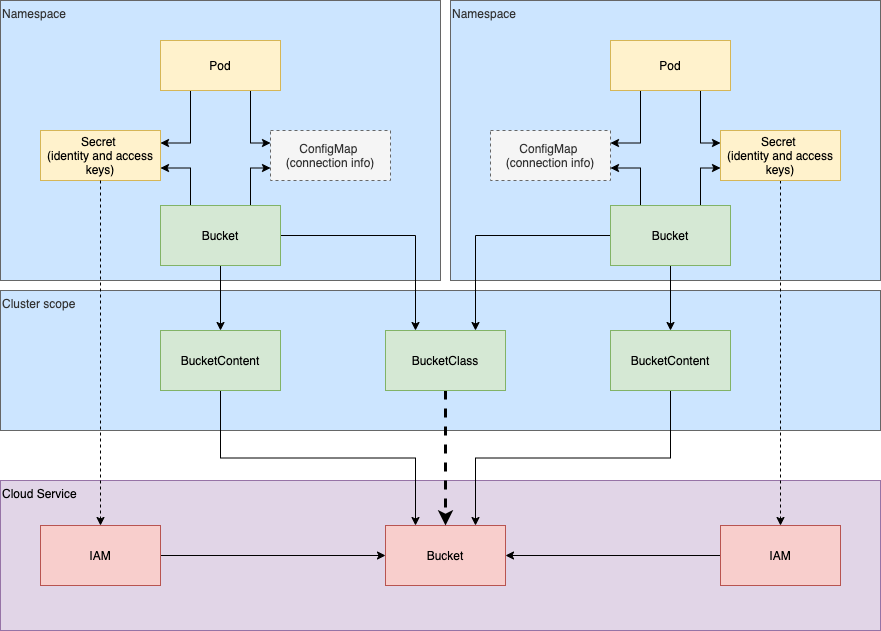
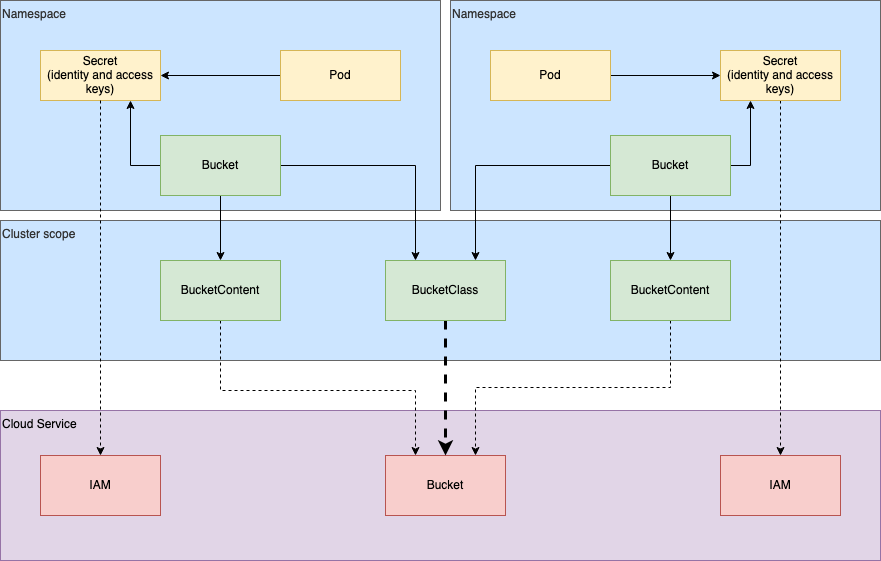
tweak diagrams, add driverless para, describe bucketclass secret params

diff --git a/keps/sig-storage/20191125-bucket-provisioning.md b/keps/sig-storage/20191125-bucket-provisioning.md
@@ -33,8 +33,8 @@ status: provisional
       - [Admin](#admin)
       - [User](#user)
   - [API Relationships](#api-relationships)
-    - [Greenfield Bucket](#greenfield-bucket)
-    - [Brownfield Bucket](#brownfield-bucket)
+    - [Greenfield: Dynamic Bucket Creation](#greenfield-dynamic-bucket-creation)
+    - [Brownfield: Dynamic Bucket Access](#brownfield-dynamic-bucket-access)
   - [Custom Resource Definitions](#custom-resource-definitions)
       - [Bucket](#bucket)
       - [BucketContent](#bucketcontent)
@@ -54,8 +54,9 @@ This proposal does _not_ include a standardized *protocol* or abstraction of sto
 File and block are first class citizens within the Kubernetes ecosystem.  Object, though very different under the hood, is a popular means of storing data, especially against very large data sources.   As such, we feel it is in the interest of the community to elevate buckets to a community supported feature.  In doing so, we can provide Kubernetes cluster users and administrators a normalized and familiar means of managing object storage.
 
 ## Goals
+
 + Define a control plane API in order to standardize and formalize Kubernetes object storage representation.
-+ As MVP, be accessible to the largest groups of consumers by supporting the major object storages protocols (S3, Google Cloud Storage, Azure Blob) while being extensible for future protocol additions.
++ As MVP, be accessible to the largest groups of consumers by supporting the major object storage protocols (S3, Google Cloud Storage, Azure Blob) while being extensible for future protocol additions.
 + Present similar workflows for both new-bucket and imported bucket operations.
 + Use standard Kubernetes mechanisms to sync a pod with the readiness of the bucket it will consume. This can be accomplished via Secrets.
 
@@ -76,7 +77,7 @@ File and block are first class citizens within the Kubernetes ecosystem.  Object
 + _BucketContent_ - A cluster-scoped custom resource bound to a `Bucket` and containing relevant metadata.
 + _Greenfield Bucket_ - a new bucket created and managed by the COSI system.
 +  _Object_ - An atomic, immutable unit of data stored in buckets.
-+ _Driverless Bucket_ - a manually integrated bucket with no installed provisioner.
++ _Driverless_ - a bucket manually defined by a user or admin with no installed provisioner.
 
 # Proposal
 
@@ -85,21 +86,21 @@ File and block are first class citizens within the Kubernetes ecosystem.  Object
 #### Admin
 
 - As a cluster administrator, I can manage multiple object store providers via the Kubernetes API and COSI automation, so that I do not have to become an expert in several different storage interfaces.
+- As a cluster administrator, I want to deploy a COSI-aware controller for managing storage policy, so that I can enforce Bucket policy from within Kubernetes.
 
 #### User
 
 - As a developer, I can define my object storage needs in the same manifest as my workload, so that deployments are streamlined and encapsulated within the Kubernetes interface.
 - As a developer, I can define a manifest containing my workload and object storage configuration once, so that my app may be ported between clusters as long as the storage provided supports my designated data path protocol.
-- As a developer, I want to create a workload operator which ingests a Kuberenetes bucket API object, so that it can dynamically connect workloads to object storage instances.
+- As a developer, I want to create a workload controller which is COSI-aware, so that it can dynamically connect workloads to object storage instances.
 
 ## API Relationships
 
-The diagram below indicates the relationships, by reference, between the proposed APIs, the user facing Kubernetes primitives, and the actual storage and identity instances.  COSI APIs bridge the gap between workloads and object stores, providing a standardized means of consuming object storage for Kubernetes operators and workloads.
+The diagram below indicates the relationships, by reference, between the proposed APIs, the user facing Kubernetes primitives, and the actual storage and identity instances.  COSI APIs bridge the gap between workloads and object stores, providing a standardized means of consuming object storage for Kubernetes controllers and workloads.
 
-Secrets are used to store the cluster user’s authn/authz information, to be passed to automation so that operations can be performed on the user’s behalf.
+Secrets are used to store the cluster user’s object store authn/authz information, to be passed to automation so that operations can be performed on the user’s behalf.
 
 - Green objects represent COSI APIs.
-
 - Yellow objects represent user defined Kubernetes primitives
 - Red objects represent object store service instances
 - Grey objects represent possible connectors between the Bucket API and workloads.  The exact relation will be defined during design of the COSI automation.
@@ -108,15 +109,58 @@ Secrets are used to store the cluster user’s authn/authz information, to be pa
 
 In an automated system where bucket lifecycles are managed by a COSI controller, a user will define a [Bucket](#bucket), containing a reference a [Bucket Class](#BucketClass).  Bucket Classes are admin-created objects representing a preset configuration for bucket creation.  A [Bucket Content](#BucketContent) object is generated and encapsulates all configuration information from the BucketClass and Bucket.  The BucketContent will store all necessary information about the provisioned storage instance, including connection data.
 
-> Note: The ConfigMap is shown to illustrate one means of transmitting data to the Pod.  In this case, it would be an artifact of a controller.
+
 
 ![](./bucket-greenfield-api-relations.png)
 
 ### Brownfield: Dynamic Bucket Access
 
-The expected workflow for interacting with a pre-existing storage instance is similar to Greenfield. The key distinction in this scenario is that a Bucket Class will reference a single, pre-existing bucket directly (indicated by the bold dashed line).  Buckets instantiated by users with reference to this class will be given the connection information for this pre-existing storage instance.  As part of this operation, the identity specified in the Bucket’s Secret should be granted permission to access the storage instance.  This operation should be configurable in through the BucketClass.
+The expected workflow for interacting with a pre-existing storage instance is similar to Greenfield. The key distinction in this scenario is that a Bucket Class will reference a single, pre-existing bucket directly (indicated by the bold dashed line).  Buckets instantiated by users with reference to this class will be given the connection information for this pre-existing storage instance.  As part of this operation, the identity specified in the Bucket’s Secret should be granted permission to access the storage instance.  This operation should be configurable through the BucketClass parameters.
+
+
 
 ![](./bucket-brownfield-api-relations.png)
+
+
+
+#### Brownfield: Driverless Bucket Access
+
+Clusters with COSI automation deployed but without a driver to manage backend bucket operations may still enable psuedo-dynamic Bucket access.  Similar to the [Brownfield: Dynamic Bucket Access](brownfield:-dynamic-bucket-access), the BucketClass will specify a single pre-existing bucket.  A BucketContent object will be generated from the BucketClass’s 
+
+### Manually Managed Buckets
+
+
+
+![](/Users/jcope/Workspace/go/src/github.com/yard-turkey/enhancements/keps/sig-storage/bucket-static-api-relation.png)
+
+
+
+### Provisioner Secrets
+
+Per [Non-Goals](non-goals), it is not within the scope of COSI to abstract IAM operations.  Instead, provisioner credentials should be provided to automation by admins or users.  
+
+The automation design should incorporate a model similar to that of CSI by defining BucketClass.Parameter key values to represent Secret name and namespace.
+
+- **Per Provisioner:** the Secret is used for all provisioning operations.  These Secrets should be injected directly in provisioner containers via [common Kubernetes patterns](https://kubernetes.io/docs/tasks/inject-data-application/distribute-credentials-secure/).
+- **Per Operation:** Secret’s data is passed to provisioners per operation or Bucket.  These Secrets should be defined as BucketClass parameters.  The keys of these values should be clearly defined during automation design.  
+
+This design should support both plain string values as well as “templates.”  Plain string values will allow admins to specify a particular Secret by name and namespace.  The key values should provide a means of defining *provisioner* credentials as well as *user* credentials.  User credentials may be required in cases where a user is being granted access to an existing bucket.
+
+As an example, the following key’s represent a minimun of what COSI automation should define.
+
+```yaml
+cosi.io/provisioner-secret-name:
+cosi.io/provisioner-secret-namespace:
+cosi.io/user-secret-name:
+cosi.io/user-secret-namespace:
+```
+
+COSI automation should support templating of at least Secret names, namespaces. For example:
+
+```yaml
+cosi.io/provisioner-secret-name: "${bucket.name}"
+cosi.io/provisioner-secret-namespace: "${bucket.namespace}"
+```
 
 ## Custom Resource Definitions
 
@@ -137,19 +181,9 @@ metadata:
   - cosi.io/finalizer [2]
 spec:
   protocol: [3]
-    type: ""
-    s3:
-      accessKeyId:
-      userName:
-      signitureVersion:
-    gcs:
-      serviceAccount:
-      privateKeyName:
-    azure:
-      storageAccountName:
   bucketPrefix: [4]
   bucketClassName: [5]
-  secretName: [6]
+  userSecretName: [6]
 status:
   bucketContentName: [7]
   phase: [8]
@@ -160,7 +194,7 @@ status:
 1. `protocol`: specifies the desired protocol.  One of {“s3”, “gcs”, or “azureBlob”}.
 1. `bucketPrefix`: (Optional) prefix prepended to a randomly generated bucket name, eg. "YosemitePhotos-". If empty no prefix is appended.
 1. `bucketClassName`: Name of the target `BucketClass`.
-1. `secretName`: Desired name for user's credential Secret. Defining this name allows for a single manifest workflow.  In cases of name collisions, attempting to create the user's secret will continue until a timeout occurs.
+1. `userSecretName`: Secret containing credentials to be used by a workload for accessing the bucket.
 1. `bucketContentName`: Name of a bound `BucketContent`.
 1. `phase`: 
    - *Pending*: The controller has detected the new `Bucket` and begun provisioning operations
@@ -256,26 +290,19 @@ kind: BucketClass
 metadata:
   name: 
 provisioner: [1]
-supportedProtocols: {"azureblob", "gcs", "s3", ... } [2]
-accessMode: {"ro", "wo", "rw"} [3]
-releasePolicy: {"Delete", "Retain"} [4]
-bucketContentRef: [5]
-  name:
-  uuid:
-secretRef: [6]
-  name:
-  namespace:
-parameters: [7]
-isDefaultBucketClass: [8]
+isDefaultBucketClass: [2]
+supportedProtocols: {"azureblob", "gcs", "s3", ... } [3]
+accessMode: {"ro", "wo", "rw"} [4]
+private: boolean [5]
+releasePolicy: {"Delete", "Retain"} [5]
+parameters: [6]
 ```
 
 1. `provisioner`: The name of the driver. If supplied the driver container and sidecar container are expected to be deployed. If omitted the `secretRef` is required for static provisioning.
+1. `isDefaultBucketClass`: boolean. When true, signals that the COSI controller should attempt to match `Bucket`’s without a defined `BucketClass` to this class, accounting for the `Bucket`’s requested protocol.  Multiple default classes for the same protocol will produce undefined behaviour.
 1. `supportedProtocols`: protocols the associated object store supports.  Applied when matching Bucket to BucketClasses.
 1. `accessMode`: (Optional) Declares the level of access given to credentials provisioned through this class.     If empty, defaults to `rw`.
 1. `releasePolicy`: Prescribes outcome of a Delete events. **Note:** In Brownfield and Static cases, *Retain* is mandated. 
     - `Delete`:  the bucket and its contents are destroyed
     - `Retain`:  the bucket and its data are preserved with only abstracting Kubernetes being destroyed
-1. `bucketContentRef:` (Optional) When specified, indicates a single `BucketConetent` for brownfield or static operations.
-1. `secretRef`: (Optional) The name and namespace of an existing secret to be copied to the `Bucket`'s namespace for static provisioning.  Requires that `bucketContentRef` point to an existing `BucketContent` . Used for brownfield and static cases.
-1. `parameters`: (Optional) Object store specific string:string map passed to the driver.
-1. `isDefaultBucketClass`: boolean. When true, signals that the COSI controller should attempt to match `Bucket`’s without a defined `BucketClass` to this class, accounting for the `Bucket`’s requested protocol.  Multiple default classes for the same protocol will produce undefined behaviour, likely matching the first default class that is found.
+1. `parameters`: (Optional)  A map of string, string key values.  This map may contain values defined by COSI and / or the backing driver.
